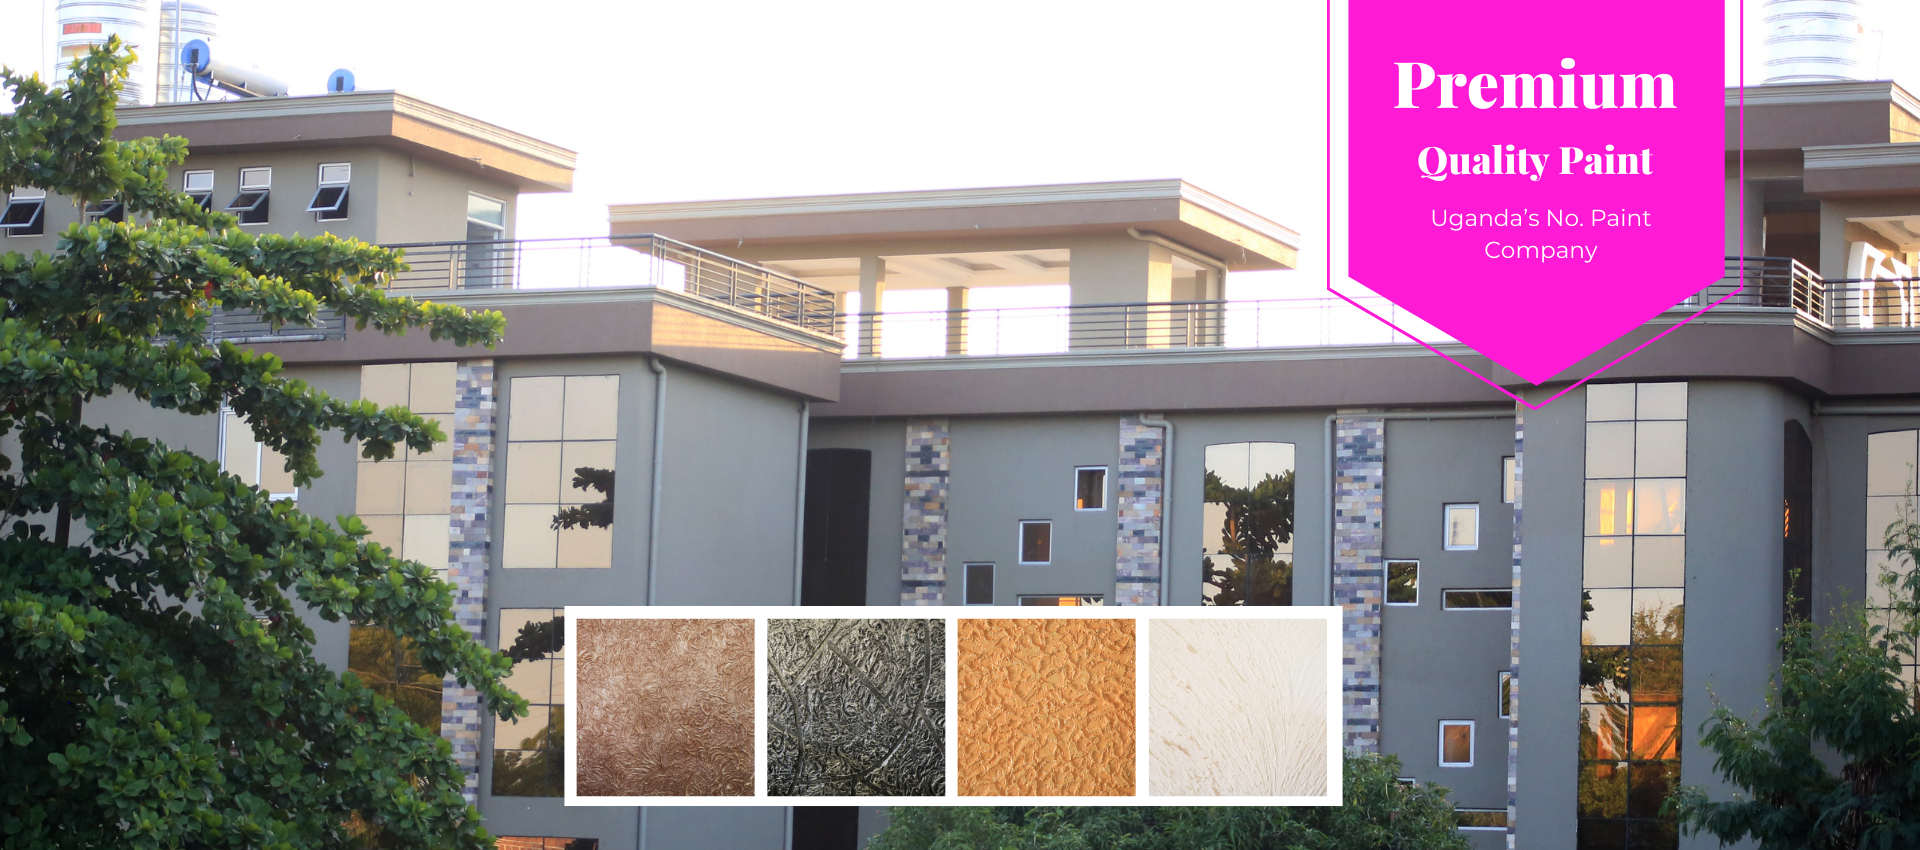
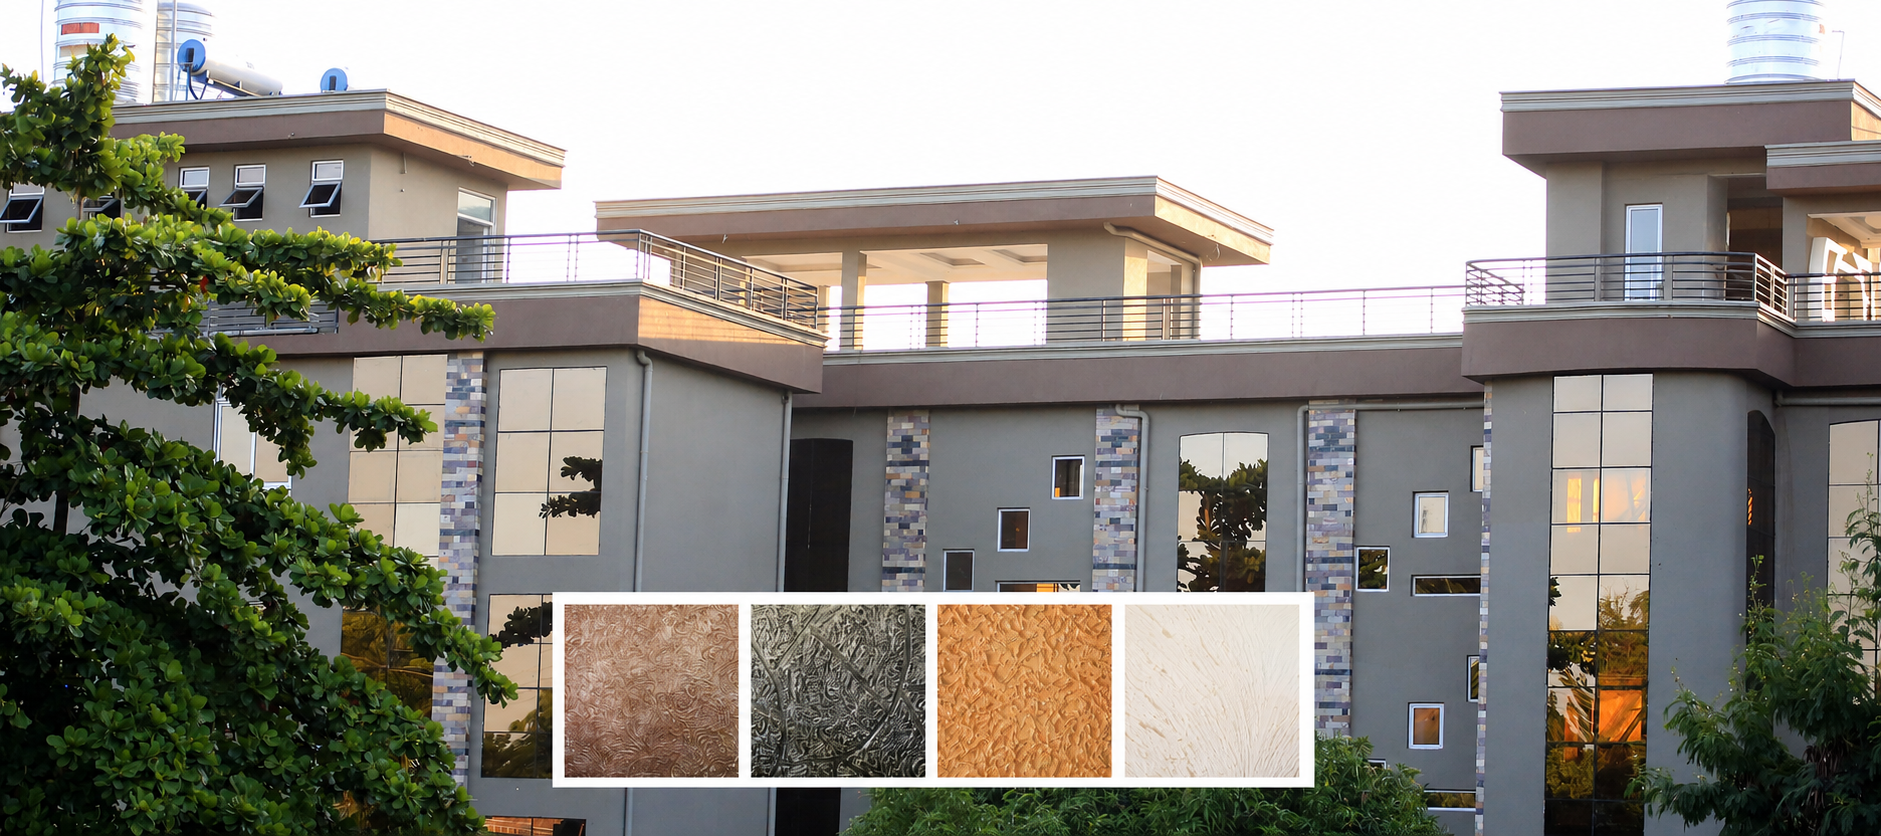
Update hero background image and change PAINTS accent color to green

diff --git a/src/app/page.tsx b/src/app/page.tsx
@@ -13,7 +13,7 @@ const heroSlides = [
     image: "/properties/2S0B9628.JPG",
     headline: "NIM",
     headlineAccent: "PAINTS",
-    accentColor: "text-flame-gold", // gold from logo
+    accentColor: "text-leaf-green",
     description: "From modern homes to iconic commercial spaces, our advanced coating systems combine lasting protection with sophisticated finishes—bringing your vision to life with uncompromising quality.",
     cta: { label: "Explore Products", href: "/products" },
   },